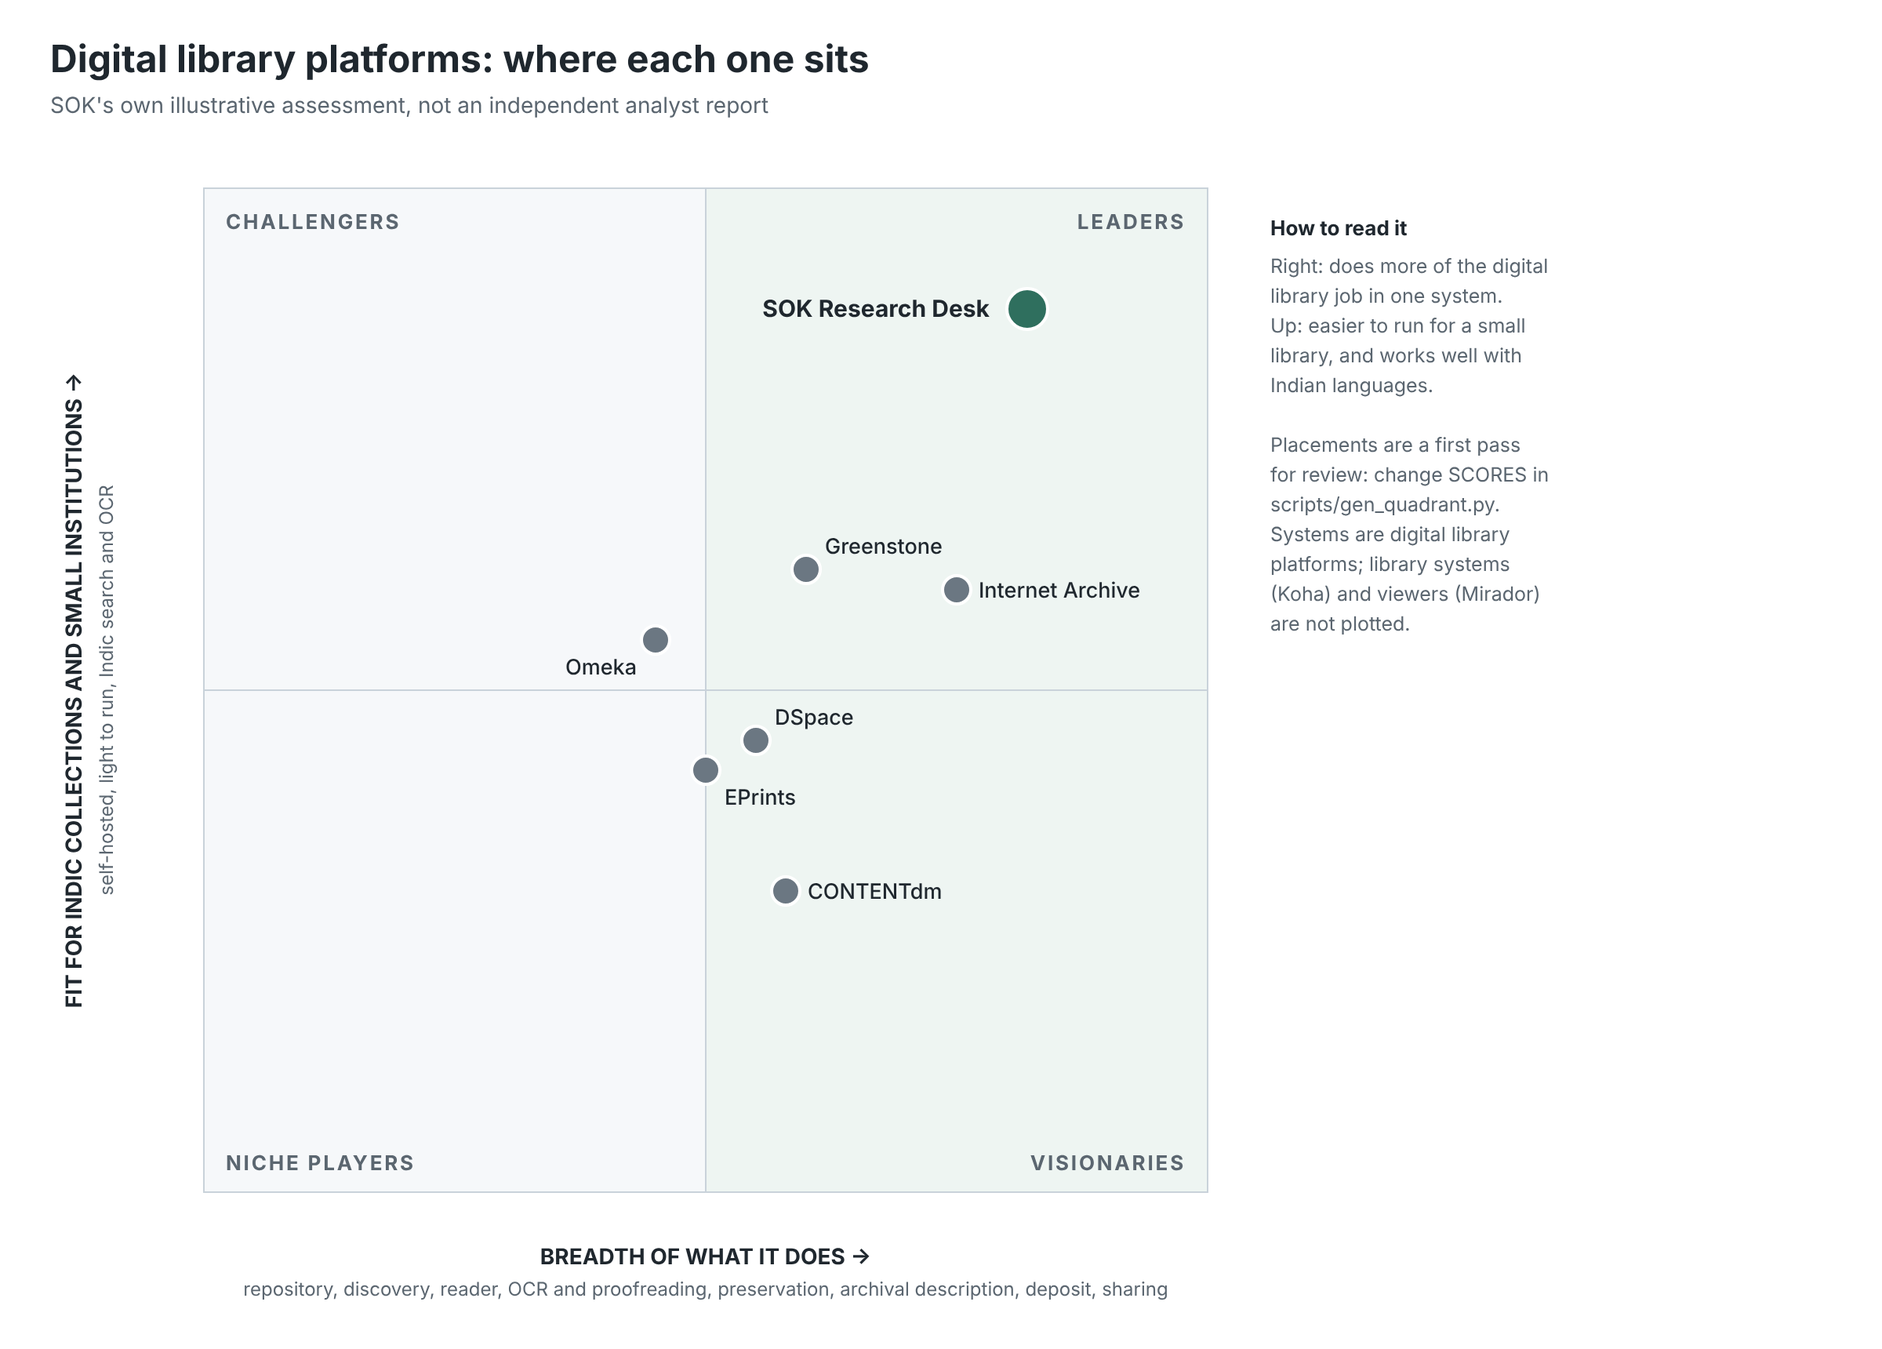
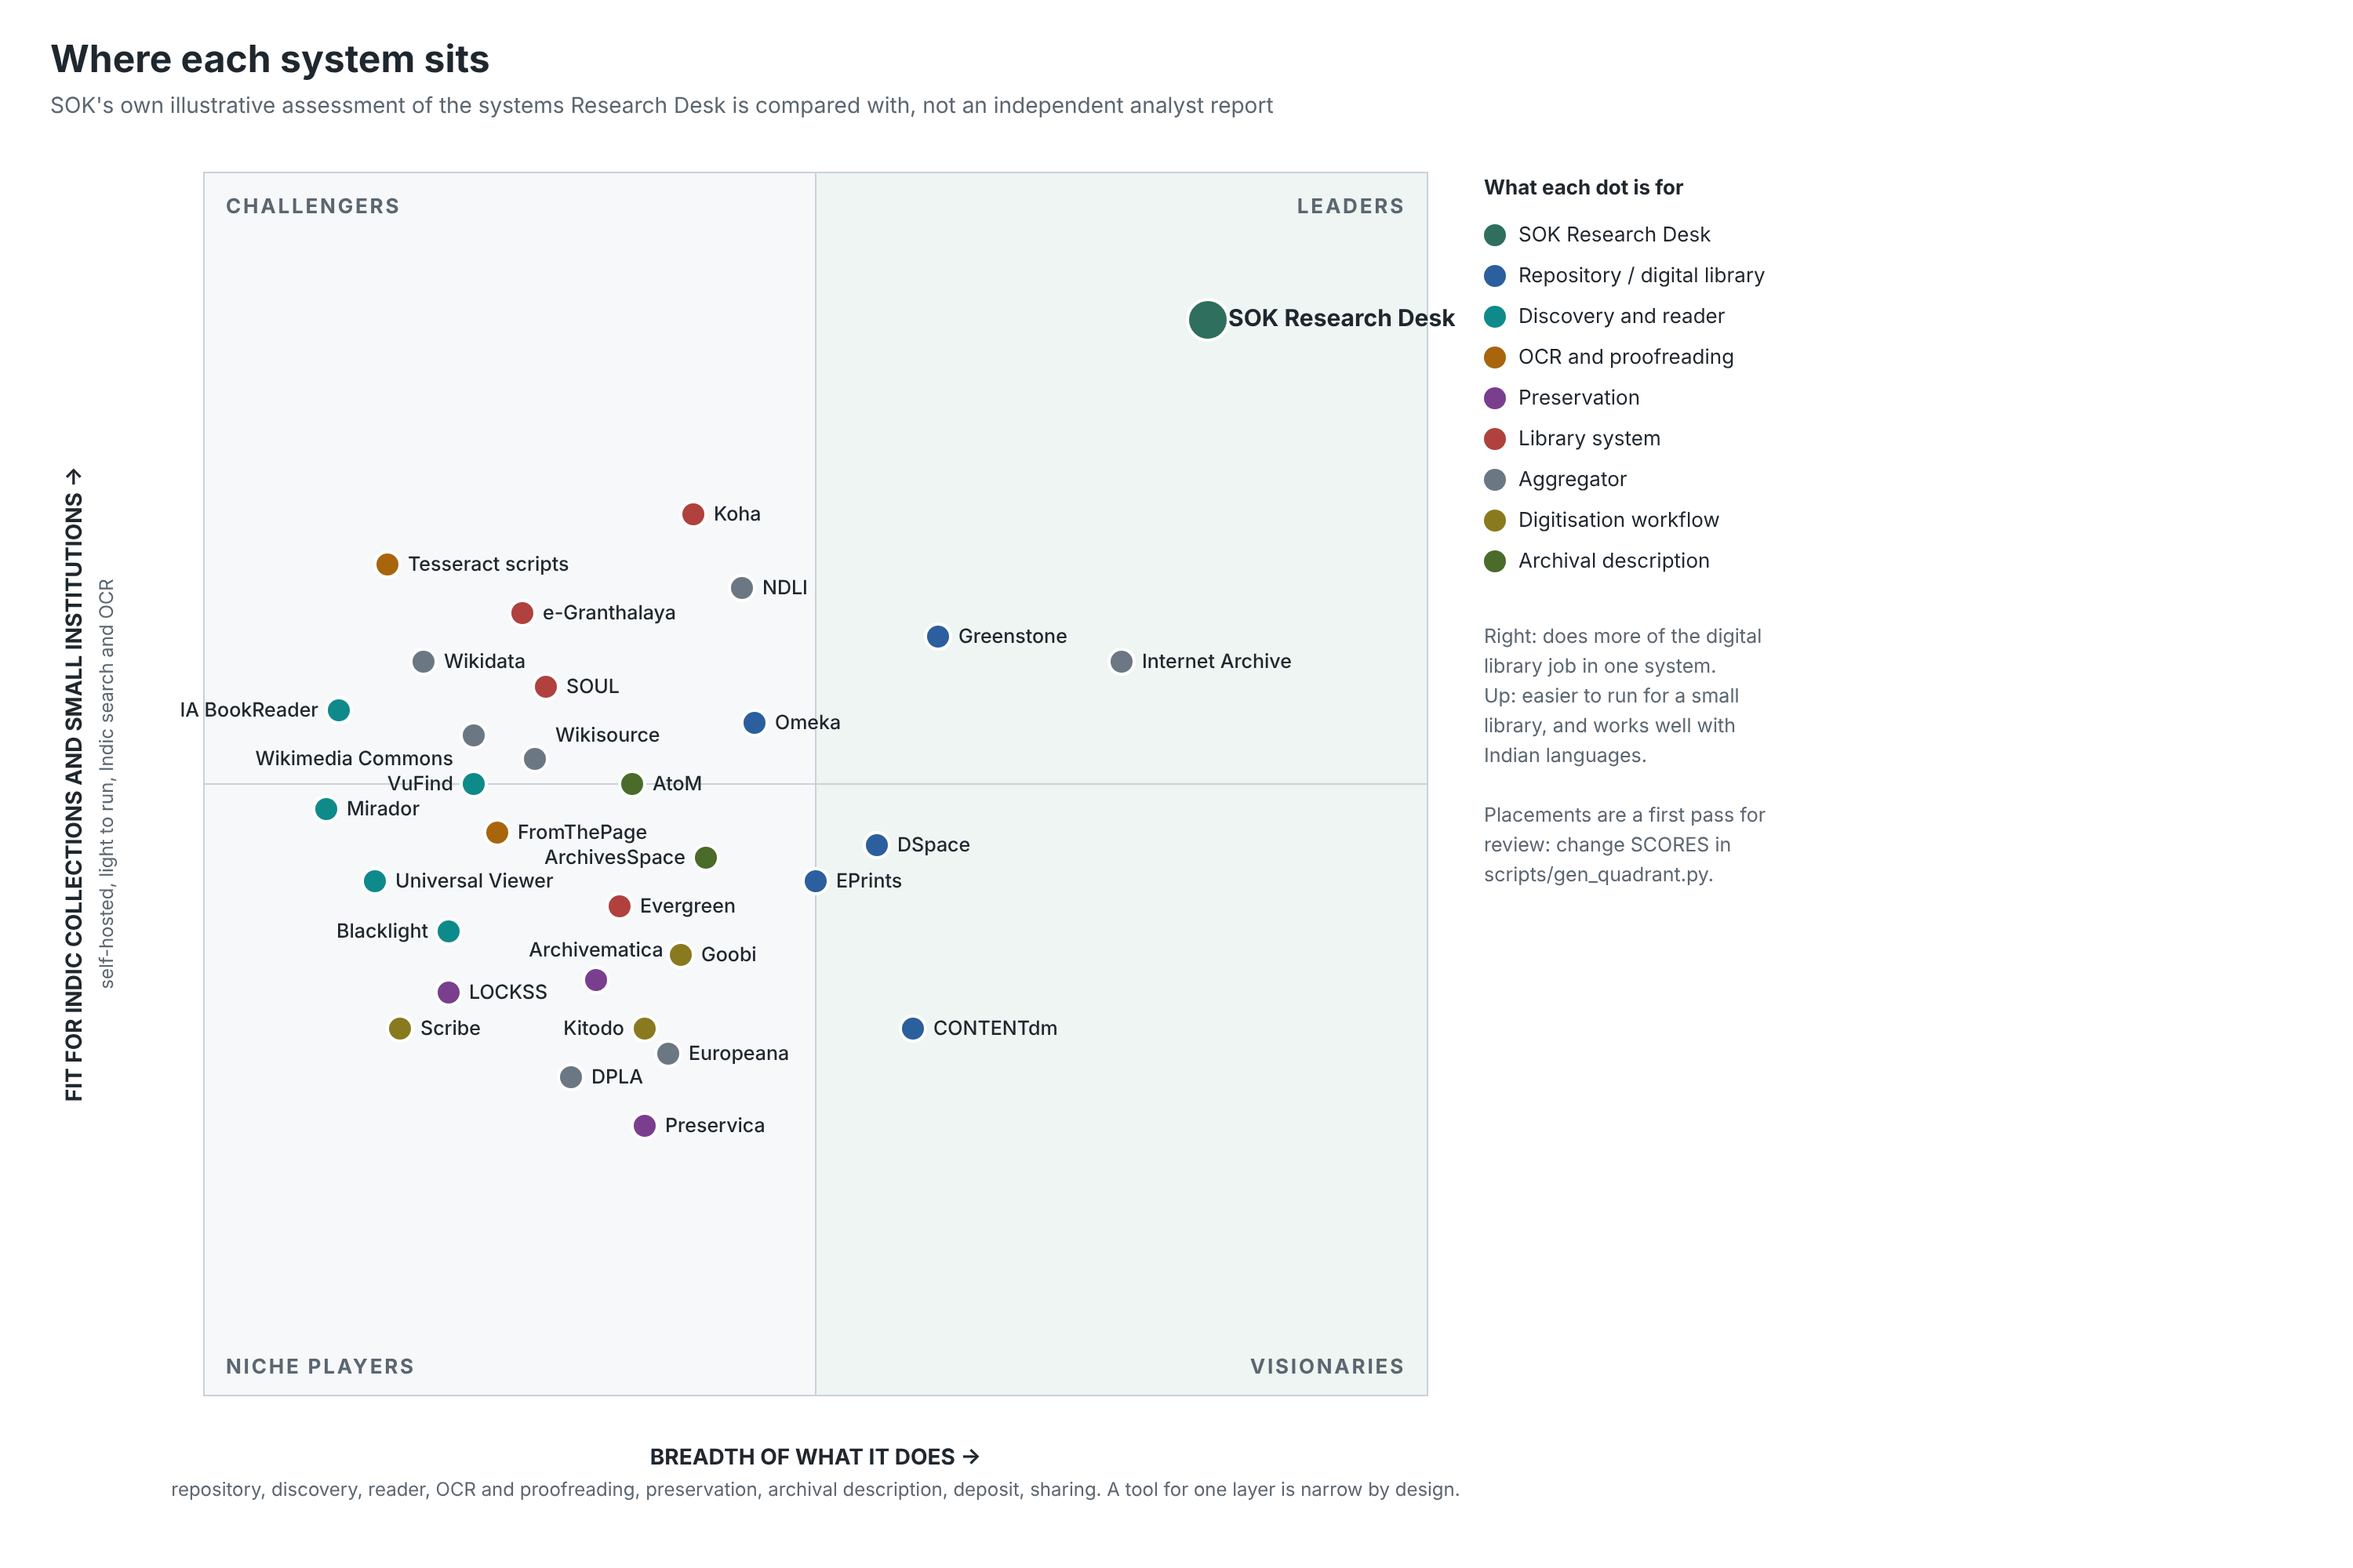
The quadrant shows every system the docs compare Research Desk with

diff --git a/scripts/gen_quadrant.py b/scripts/gen_quadrant.py
@@ -1,12 +1,14 @@
 #!/usr/bin/env python3
-"""Draw a quadrant of digital library platforms (sok_resdesk/public/images/quadrant.svg).
+"""Draw a quadrant of the systems Research Desk is compared with (sok_resdesk/public/images/quadrant.svg).
 
     python3 scripts/gen_quadrant.py
 
 A two-by-two in the familiar analyst layout. It is SOK's own, illustrative assessment, not an analyst
 report: edit SCORES (0-100 on each axis) to change where a system sits, then run the script again.
+Every system named in "Where it fits" of docs/architecture.md is here, coloured by the layer it is for.
 X: breadth of what the system does across the layers of a digital library (repository, discovery, reader,
-OCR and proofreading, preservation, archival description, deposit, sharing).
+OCR and proofreading, preservation, archival description, deposit, sharing). A tool for one layer is
+narrow by design, so it sits to the left.
 Y: fit for Indic-language collections and small institutions (self-hosted, light to run, Indic search and OCR).
 """
 
@@ -17,26 +19,56 @@ from pathlib import Path
 
 OUT = Path(__file__).resolve().parents[1] / "sok_resdesk" / "public" / "images" / "quadrant.svg"
 INK, MUTED, LINE, BG = "#1f272e", "#5b6670", "#c9d2da", "#ffffff"
-GREEN, GREY = "#2f6f5e", "#6b7782"
-# name: (breadth, fit); first pass for the owner to review
+US = "#2f6f5e"
+# layer -> colour
+LAYERS = {
+	"Repository / digital library": "#2b5f9e",
+	"Discovery and reader": "#0e8a8a",
+	"OCR and proofreading": "#a8650c",
+	"Preservation": "#7a3e8f",
+	"Library system": "#b0413e",
+	"Aggregator": "#6b7782",
+	"Digitisation workflow": "#8a7a1f",
+	"Archival description": "#4a6b2a",
+}
+# name: (breadth, fit, layer); a first pass for the owner to review
 SCORES = {
-	"SOK Research Desk": (82, 88),
-	"Greenstone": (60, 62),
-	"Internet Archive": (75, 60),
-	"Omeka": (45, 55),
-	"DSpace": (55, 45),
-	"EPrints": (50, 42),
-	"CONTENTdm": (58, 30),
+	"SOK Research Desk": (82, 88, None),
+	"Greenstone": (60, 62, "Repository / digital library"),
+	"Omeka": (45, 55, "Repository / digital library"),
+	"DSpace": (55, 45, "Repository / digital library"),
+	"EPrints": (50, 42, "Repository / digital library"),
+	"CONTENTdm": (58, 30, "Repository / digital library"),
+	"Internet Archive": (75, 60, "Aggregator"),
+	"VuFind": (22, 50, "Discovery and reader"),
+	"Blacklight": (20, 38, "Discovery and reader"),
+	"IA BookReader": (11, 56, "Discovery and reader"),
+	"Mirador": (10, 48, "Discovery and reader"),
+	"Universal Viewer": (14, 42, "Discovery and reader"),
+	"Tesseract scripts": (15, 68, "OCR and proofreading"),
+	"FromThePage": (24, 46, "OCR and proofreading"),
+	"Archivematica": (32, 34, "Preservation"),
+	"Preservica": (36, 22, "Preservation"),
+	"LOCKSS": (20, 33, "Preservation"),
+	"Koha": (40, 72, "Library system"),
+	"Evergreen": (34, 40, "Library system"),
+	"SOUL": (28, 58, "Library system"),
+	"e-Granthalaya": (26, 64, "Library system"),
+	"NDLI": (44, 66, "Aggregator"),
+	"Europeana": (38, 28, "Aggregator"),
+	"DPLA": (30, 26, "Aggregator"),
+	"Wikidata": (18, 60, "Aggregator"),
+	"Wikimedia Commons": (22, 54, "Aggregator"),
+	"Wikisource": (27, 52, "Aggregator"),
+	"Goobi": (39, 36, "Digitisation workflow"),
+	"Kitodo": (36, 30, "Digitisation workflow"),
+	"Scribe": (16, 30, "Digitisation workflow"),
+	"AtoM": (35, 50, "Archival description"),
+	"ArchivesSpace": (41, 44, "Archival description"),
 }
-W, H = 1200, 860
-L, T, S = 130, 120, 640  # plot area: left, top, side
-LABEL_OFFSET = {
-	"SOK Research Desk": (-20, 5),
-	"EPrints": (12, 22),
-	"DSpace": (12, -10),
-	"Omeka": (-12, 22),
-	"Greenstone": (12, -10),
-}
+W, H = 1500, 1000
+L, T, S = 130, 110, 780  # plot area: left, top, side
+FONT = 12.5
 
 
 def px(v: float) -> float:
@@ -47,64 +79,94 @@ def py(v: float) -> float:
 	return T + S * (1 - v / 100)
 
 
+def place_labels() -> dict[str, tuple[float, float, str]]:
+	"""A spot for each label that overlaps no dot and no other label: name -> (x, y, text-anchor)."""
+	boxes: list[tuple[float, float, float, float]] = []
+	for _name, (x, y, _layer) in SCORES.items():
+		boxes.append((px(x) - 10, py(y) - 10, px(x) + 10, py(y) + 10))
+	out = {}
+	for name, (x, y, _layer) in sorted(SCORES.items(), key=lambda kv: -kv[1][0]):
+		w, h = 6.5 * len(name), 14
+		cx, cy = px(x), py(y)
+		options = [
+			(cx + 13, cy + 4, "start"), (cx - 13, cy + 4, "end"), (cx + 13, cy - 11, "start"),
+			(cx - 13, cy - 11, "end"), (cx + 13, cy + 19, "start"), (cx - 13, cy + 19, "end"),
+			(cx, cy - 15, "middle"), (cx, cy + 24, "middle"),
+		]  # fmt: skip
+		for tx, ty, anchor in options:
+			x0 = tx if anchor == "start" else tx - w if anchor == "end" else tx - w / 2
+			box = (x0, ty - h + 3, x0 + w, ty + 3)
+			if all(box[2] < b[0] or box[0] > b[2] or box[3] < b[1] or box[1] > b[3] for b in boxes):
+				break
+		boxes.append(box)
+		out[name] = (tx, ty, anchor)
+	return out
+
+
 def main() -> None:
 	p = [
 		f'<svg xmlns="http://www.w3.org/2000/svg" viewBox="0 0 {W} {H}" width="{W}" height="{H}" '
 		'font-family="Inter, Segoe UI, Helvetica, Arial, sans-serif" role="img" '
-		'aria-label="Quadrant of digital library platforms by breadth of capability and fit for Indic-language '
-		'collections and small institutions">',
+		'aria-label="Quadrant of the systems Research Desk is compared with, by breadth of what they do and '
+		'fit for Indic-language collections and small institutions">',
 		f'<rect width="{W}" height="{H}" fill="{BG}"/>',
-		f'<text x="32" y="46" font-size="24" font-weight="700" fill="{INK}">Digital library platforms: where each one sits</text>',
-		f'<text x="32" y="72" font-size="14" fill="{MUTED}">SOK\'s own illustrative assessment, not an independent analyst report</text>',
+		f'<text x="32" y="46" font-size="24" font-weight="700" fill="{INK}">Where each system sits</text>',
+		f'<text x="32" y="72" font-size="14" fill="{MUTED}">SOK\'s own illustrative assessment of the systems '
+		"Research Desk is compared with, not an independent analyst report</text>",
 	]
-	# the four boxes
 	half = S / 2
-	for _name, x, y, tint in (
-		("NICHE PLAYERS", L, T + half, "#f6f8fa"),
-		("VISIONARIES", L + half, T + half, "#eef5f2"),
-		("CHALLENGERS", L, T, "#f6f8fa"),
-		("LEADERS", L + half, T, "#eef5f2"),
-	):
+	for x, y, tint in (
+		(L, T + half, "#f6f8fa"), (L + half, T + half, "#eef5f2"), (L, T, "#f6f8fa"), (L + half, T, "#eef5f2")
+	):  # fmt: skip
 		p.append(f'<rect x="{x}" y="{y}" width="{half}" height="{half}" fill="{tint}" stroke="{LINE}"/>')
 	for name, x, y in (
-		("CHALLENGERS", L + 14, T + 26),
-		("LEADERS", L + S - 14, T + 26),
-		("NICHE PLAYERS", L + 14, T + S - 14),
-		("VISIONARIES", L + S - 14, T + S - 14),
-	):
+		("CHALLENGERS", L + 14, T + 26), ("LEADERS", L + S - 14, T + 26),
+		("NICHE PLAYERS", L + 14, T + S - 14), ("VISIONARIES", L + S - 14, T + S - 14),
+	):  # fmt: skip
 		anchor = "end" if x > L + half else "start"
 		p.append(
-			f'<text x="{x}" y="{y}" text-anchor="{anchor}" font-size="13" font-weight="700" letter-spacing="1.4" fill="{MUTED}">{name}</text>'
+			f'<text x="{x}" y="{y}" text-anchor="{anchor}" font-size="13" font-weight="700" '
+			f'letter-spacing="1.4" fill="{MUTED}">{name}</text>'
 		)
-	# axes
 	p.append(
-		f'<text x="{L + S / 2}" y="{T + S + 46}" text-anchor="middle" font-size="14" font-weight="700" fill="{INK}">BREADTH OF WHAT IT DOES  →</text>'
+		f'<text x="{L + S / 2}" y="{T + S + 44}" text-anchor="middle" font-size="14" font-weight="700" '
+		f'fill="{INK}">BREADTH OF WHAT IT DOES  →</text>'
 	)
 	p.append(
-		f'<text x="{L + S / 2}" y="{T + S + 66}" text-anchor="middle" font-size="12" fill="{MUTED}">repository, discovery, reader, OCR and proofreading, preservation, archival description, deposit, sharing</text>'
+		f'<text x="{L + S / 2}" y="{T + S + 64}" text-anchor="middle" font-size="12" fill="{MUTED}">'
+		"repository, discovery, reader, OCR and proofreading, preservation, archival description, deposit, "
+		"sharing. A tool for one layer is narrow by design.</text>"
 	)
 	p.append(
-		f'<text transform="translate(52 {T + S / 2}) rotate(-90)" text-anchor="middle" font-size="14" font-weight="700" fill="{INK}">FIT FOR INDIC COLLECTIONS AND SMALL INSTITUTIONS  →</text>'
+		f'<text transform="translate(52 {T + S / 2}) rotate(-90)" text-anchor="middle" font-size="14" '
+		f'font-weight="700" fill="{INK}">FIT FOR INDIC COLLECTIONS AND SMALL INSTITUTIONS  →</text>'
 	)
 	p.append(
-		f'<text transform="translate(72 {T + S / 2}) rotate(-90)" text-anchor="middle" font-size="12" fill="{MUTED}">self-hosted, light to run, Indic search and OCR</text>'
+		f'<text transform="translate(72 {T + S / 2}) rotate(-90)" text-anchor="middle" font-size="12" '
+		f'fill="{MUTED}">self-hosted, light to run, Indic search and OCR</text>'
 	)
-	# the systems
-	for name, (x, y) in SCORES.items():
-		us = name.startswith("SOK")
-		colour = GREEN if us else GREY
-		dx, dy = LABEL_OFFSET.get(name, (14, 5))
-		anchor = "end" if dx < 0 else "start"
+	spots = place_labels()
+	for name, (x, y, layer) in SCORES.items():
+		us = layer is None
+		colour = US if us else LAYERS[layer]
+		tx, ty, anchor = spots[name]
 		p.append(
-			f'<circle cx="{px(x):.0f}" cy="{py(y):.0f}" r="{13 if us else 9}" fill="{colour}" stroke="#ffffff" stroke-width="2"/>'
+			f'<circle cx="{px(x):.0f}" cy="{py(y):.0f}" r="{13 if us else 8}" fill="{colour}" '
+			'stroke="#ffffff" stroke-width="2"/>'
 		)
 		p.append(
-			f'<text x="{px(x) + dx + (-4 if us else 0):.0f}" y="{py(y) + dy:.0f}" text-anchor="{anchor}" '
-			f'font-size="{15 if us else 13.5}" font-weight="{700 if us else 500}" fill="{INK}">{escape(name)}</text>'
+			f'<text x="{tx:.0f}" y="{ty:.0f}" text-anchor="{anchor}" font-size="{15 if us else FONT}" '
+			f'font-weight="{700 if us else 500}" fill="{INK}">{escape(name)}</text>'
 		)
+	lx = L + S + 36
 	p.append(
-		f'<text x="{L + S + 40}" y="{T + 30}" font-size="13" font-weight="700" fill="{INK}">How to read it</text>'
+		f'<text x="{lx}" y="{T + 14}" font-size="13" font-weight="700" fill="{INK}">What each dot is for</text>'
 	)
+	rows = [("SOK Research Desk", US), *LAYERS.items()]
+	for i, (label, colour) in enumerate(rows):
+		y = T + 44 + i * 26
+		p.append(f'<circle cx="{lx + 7}" cy="{y - 4}" r="7" fill="{colour}"/>')
+		p.append(f'<text x="{lx + 22}" y="{y}" font-size="13" fill="{INK}">{escape(label)}</text>')
 	notes = [
 		"Right: does more of the digital",
 		"library job in one system.",
@@ -112,17 +174,13 @@ def main() -> None:
 		"library, and works well with",
 		"Indian languages.",
 		"",
-		"Placements are a first pass",
-		"for review: change SCORES in",
+		"Placements are a first pass for",
+		"review: change SCORES in",
 		"scripts/gen_quadrant.py.",
-		"Systems are digital library",
-		"platforms; library systems",
-		"(Koha) and viewers (Mirador)",
-		"are not plotted.",
 	]
 	for i, line in enumerate(notes):
 		p.append(
-			f'<text x="{L + S + 40}" y="{T + 54 + i * 19}" font-size="12.5" fill="{MUTED}">{escape(line)}</text>'
+			f'<text x="{lx}" y="{T + 300 + i * 19}" font-size="12.5" fill="{MUTED}">{escape(line)}</text>'
 		)
 	p.append("</svg>")
 	OUT.write_text("\n".join(p), encoding="utf-8")
